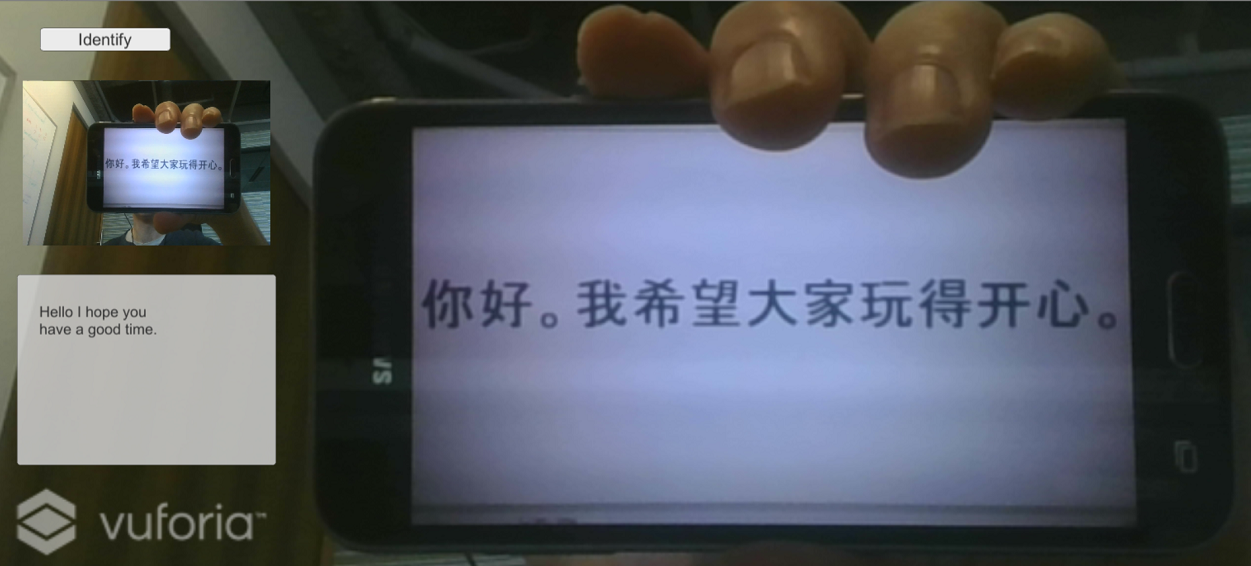
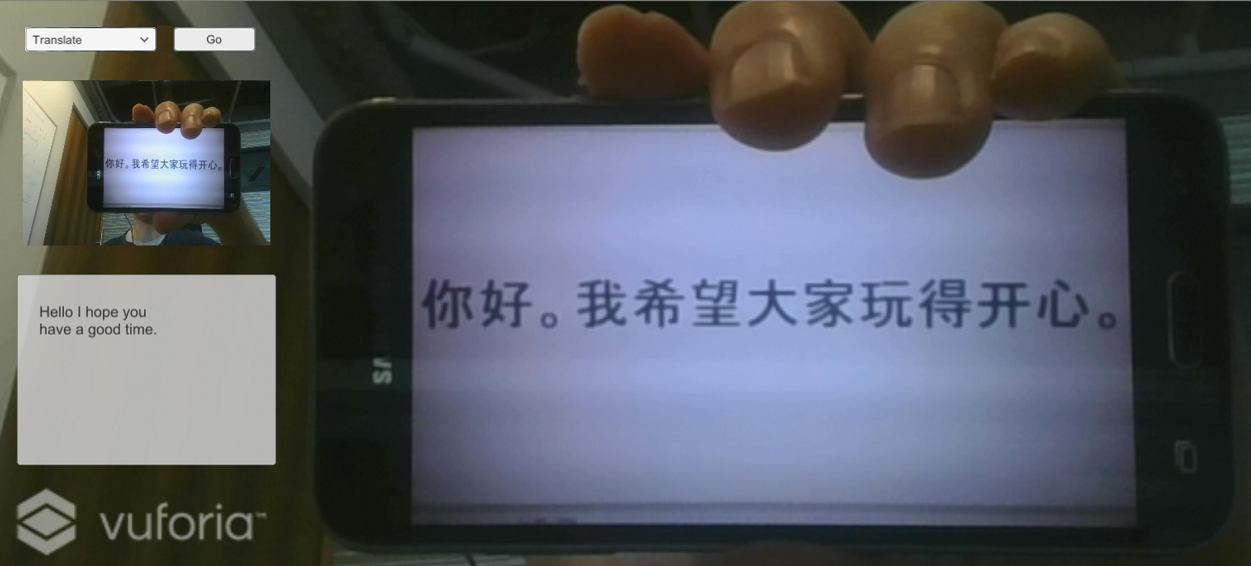
add dropdown

Changed region(s): [[0.0, 0.03, 0.2182, 0.0901]]

diff --git a/07-Translate/README.md b/07-Translate/README.md
@@ -8,7 +8,15 @@ This demo builds upon the previous demo by showing how to call the Translation A
 
 Follow these instructions to deploy the application when using the emulator:
 
+1. Add option
+
+   - Select **ddAction**
+   - Add an **Translate** option
+
+   ![add option](setup/add-option-translate-labelled.png)
+
 1. Add scripts
+
    - Copy **`<working-dir>`\reality-augmentation-using-cognitive-services\07-Translate\scripts\TranslationAPIResults.cs** to **`<working-dir>`\HoloWorld\Assets\Scripts**
 
 1. Edit scripts
@@ -67,14 +75,20 @@ Follow these instructions to deploy the application when using the emulator:
 		}
     }
    ```
-   - Edit **`<working-dir>`\HoloWorld\Assets\Scripts\SetImageLabels.cs** by commenting out the call to **MakeHandwritingRequest** and adding a new line below it that calls **MakeTranslationRequest** as follows:
+   - Edit **`<working-dir>`\HoloWorld\assets\Scripts\SetImageLabels.cs** by adding a new case statement that calls **MakeTranslationRequest** as follows:
    ```
-   //StartCoroutine(VisionAPIUtils.MakeHandwritingRequest(bytes, "txtImageInfo", typeof(Text)));
-   StartCoroutine(VisionAPIUtils.MakeTranslationRequest(bytes, "txtImageInfo", typeof(Text)));
+	case 3: // Translate
+		StartCoroutine(VisionAPIUtils.MakeTranslationRequest(bytes, "txtImageInfo", typeof(Text)));
+		break;
    ```
+   - Menu **File** > **Save All**
+
+   - From the Unity Editor
+   - Menu **File** > **Save Scenes**
+   - Menu **File** > **Save Project**   
 
 ## Run the demo
 
   ![play](setup/play-labelled-resized-66.png)
 
-  - Click **Run**. If you hold some text in front of your computer's camera and click the **Identify** button, you will see the text extracted from the image and translated into Chinese. As an example, you can use a printout or a phone capture of the text image found at **`<working-dir>`\reality-augmentation-using-cognitive-services\06-Translate\images\text.png**.
+  - Click **Run**. If you hold some text in front of your computer's camera, select **Translate**, and click the **Go** button,, you will see the text extracted from the image and translated into Chinese. As an example, you can use a printout or a phone capture of the text image found at **`<working-dir>`\reality-augmentation-using-cognitive-services\06-Translate\images\text.png**.
